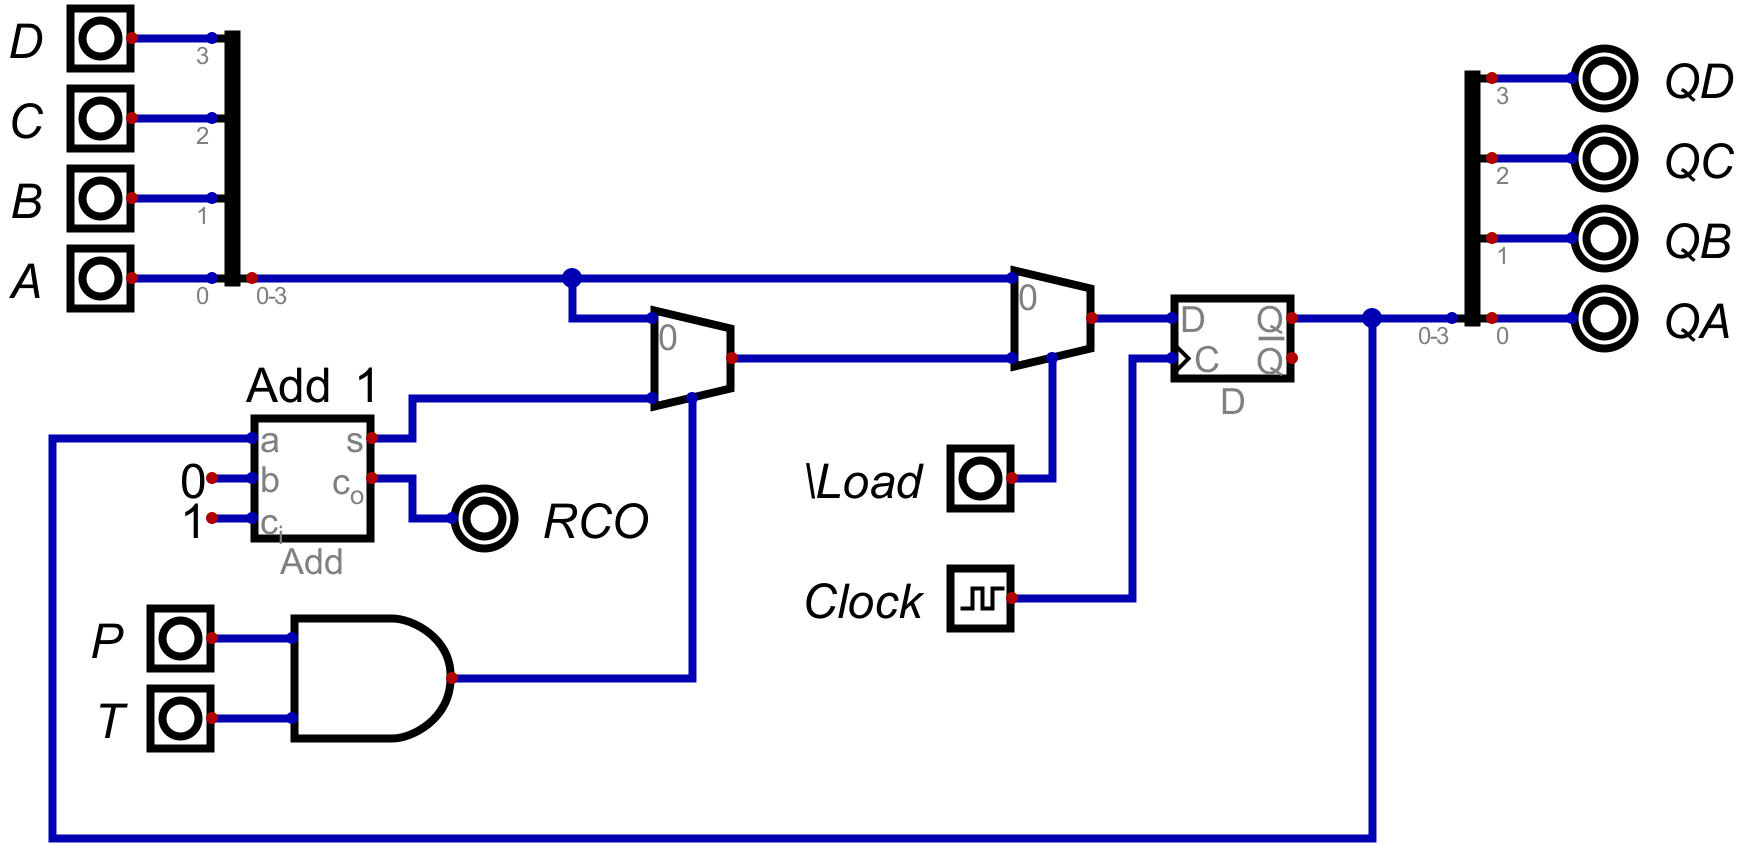
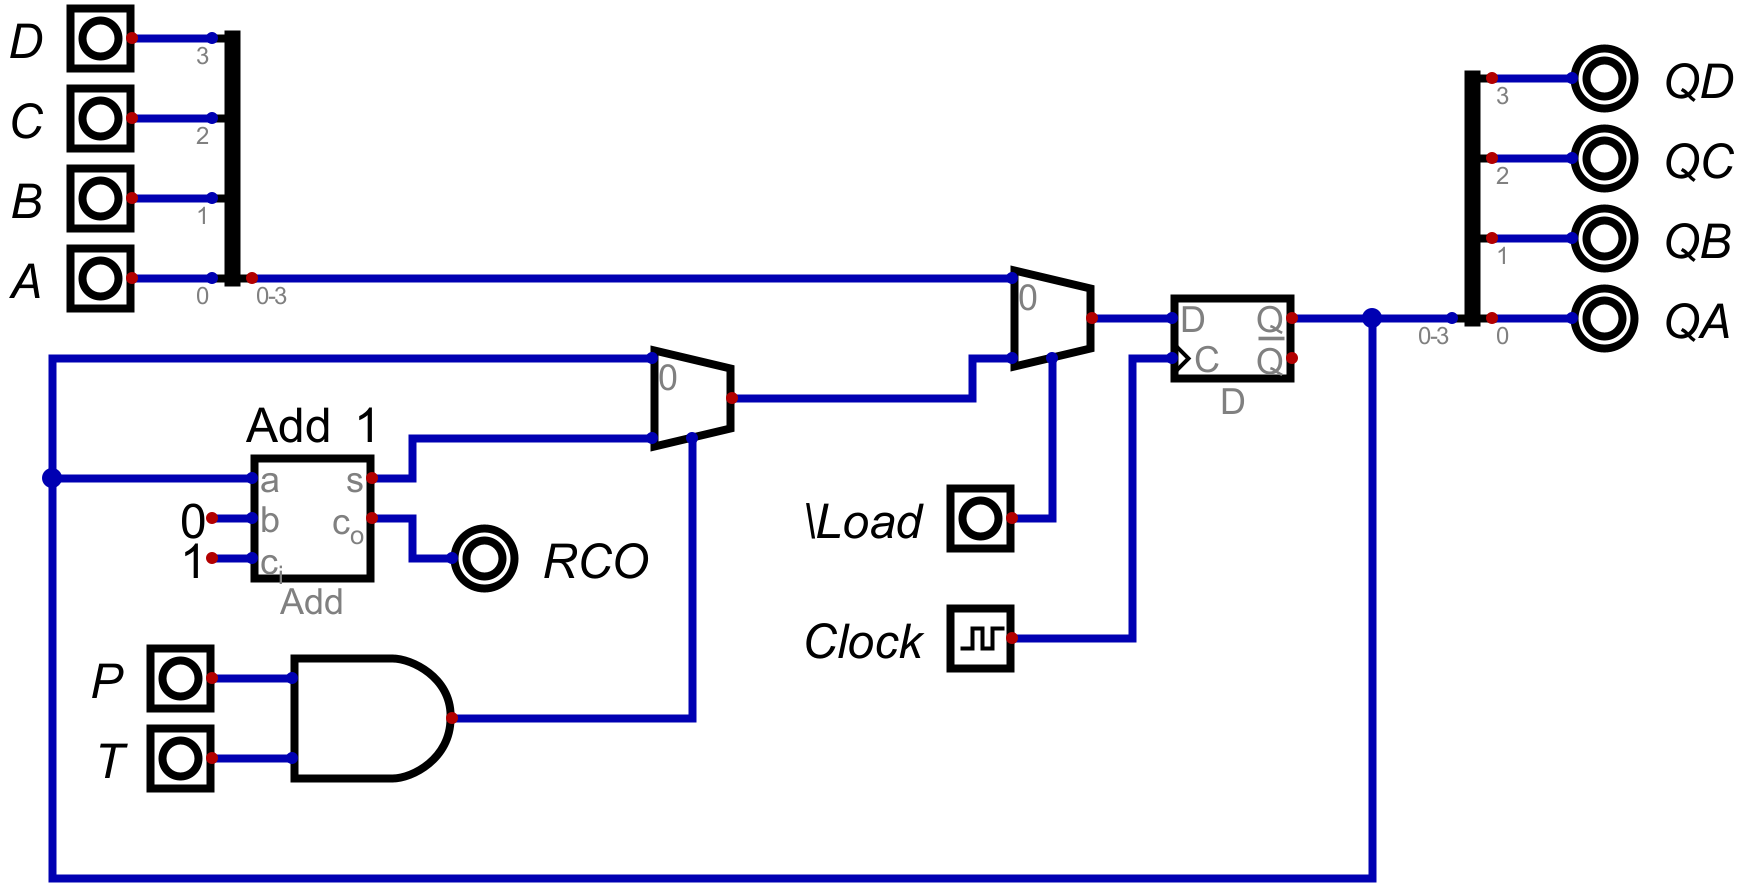
Update diglab_08_01

diff --git a/Lab 08/diglab_08_01/diglab_08_01_sol.md b/Lab 08/diglab_08_01/diglab_08_01_sol.md
@@ -14,14 +14,52 @@
 - `\Load = 0` คือการ SET ค่า `QD`, `QC`, `QB` และ `QA` ตามค่าของ `D`, `C`, `B` และ `A`
 - `\Clr = 0` คือการ RESET ค่า `QD`, `QC`, `QB` และ `QA` เป็นค่าเริ่มต้น
 
-[INSERT IMAGE HERE]
-
-<img src="https://raw.githubusercontent.com/reisenx/2110263-DIG-LOGIC-LAB-I/refs/heads/main/Lab%2007/diglab_07_05/diglab_07_05_pics/diglab_07_05_Dtable.png" width=40% height=40%>
+<img src="https://raw.githubusercontent.com/reisenx/2110263-DIG-LOGIC-LAB-I/refs/heads/main/Lab%2008/diglab_08_01/diglab_08_01_pics/diglab_08_01_signalTable.png" width=40% height=40%>
 
 ### Output
 - `QD`, `QC`, `QB` และ `QA` ใช้แสดงค่าของเลขใน state ปัจจุบัน
 - `RCO = 1` ก็ต่อเมื่อวงจรนับถึงเลข `1111`
 
+## ออกแบบวงจร Counter แบบคร่าวๆ
+เมื่อนำข้อมูลข้างต้นมาออกแบบวงจรแบบคร่าวๆ จะได้ดังนี้
+- ใช้ Adder ในการเพิ่มค่าทีละ 1
+- ใช้ Memory (D Flip-flop) ในการเก็บค่า Output ใน state ที่ผ่านมา
+
+<img src="https://raw.githubusercontent.com/reisenx/2110263-DIG-LOGIC-LAB-I/refs/heads/main/Lab%2008/diglab_08_01/diglab_08_01_pics/diglab_08_01_circuit.jpg" width=60% height=60%>
+
 ---
 
-# Step 2: 
+# Step 2: ต่อวงจร Counter 74163
+
+## ต่อวงจรในส่วนของ Input, Output และ Memory
+- สร้าง Input `A`, `B`, `C` และ `D` และเชื่อมด้วย Merger ให้เป็นเลขฐานสองขนาด 4 Bits
+- เขื่อม Input กับ Memory (D Flip-flop) เพื่อเก็บค่า Output ใน state ที่ผ่านมา
+- ใช้ Splitter เพื่อแยกเลขฐานสองขนาด 4 Bits ให้ Output ออกมาเป็น `QA`, `QB`, `QC` และ `QD`
+- ใช้ Multiplexer เชื่อมกับ Input เพื่อให้วงจรเก็บค่า `A`, `B`, `C` และ `D` เมื่อ `\Load = 0` เท่านั้น
+
+<img src="https://raw.githubusercontent.com/reisenx/2110263-DIG-LOGIC-LAB-I/refs/heads/main/Lab%2008/diglab_08_01/diglab_08_01_pics/diglab_08_01_memory.png" width=60% height=60%>
+
+## ต่อวงจรในส่วนของ Adder
+- ใช้วงจร Adder ในการบวก Output ใน state ก่อนหน้าเพิ่มอีก 1
+- เชื่อมผลบวกกับ Multiplexer ในภาพที่แล้ว โดยให้วงจรเก็บค่าผลบวกจากวงจร Adder เมื่อ `\Load = 1` เท่านั้น
+- สามารถแสดงผล `RCO` เป็น $C_{out}$ ของวงจร Adder ได้เลย เพราะว่าในขณะ Output เป็น `1111` ตัววงจร Adder ตอนนั้นมันได้เอา `1111` มาบวก `1` ไปแล้ว ซึงจะได้ $Sum$ เท่ากับ `0000` และ $C_{out}$ เป็น `1` ดังนั้น `RCO` จะแสดงผลเป็น `1` ในขณะที่ Output เป็น `1111` นั่นเอง
+
+<img src="https://raw.githubusercontent.com/reisenx/2110263-DIG-LOGIC-LAB-I/refs/heads/main/Lab%2008/diglab_08_01/diglab_08_01_pics/diglab_08_01_adder.png" width=60% height=60%>
+
+เนื่องจากวงจรนี้จะนับเลขก็ต่อเมื่อ `P` และ `T` เท่ากับ `1` ทั้งคู่ ถ้าหากมีตัวใดตัวหนึ่งเป็น `0` ให้ HOLD ค่าเดิมเอาไว้ ดังนั้นเราจะต้อง
+- ใช้ Multiplexer ที่มีช่องหนึ่งเชื่อมกับวงจร Adder เพื่อให้วงจรบวกเลขไปเรื่อยๆ
+- อีกช่องหนึ่งต่อกับ Output ใน State ที่แล้ว เพื่อ HOLD ค่าเดิมเอาไว้
+- ใช้ $Selector = PT$ เพื่อให้ Selector เท่ากับ `1` เมื่อ `P` และ `T` เท่ากับ `1` ทั้งคู่เท่านั้น
+
+<img src="https://raw.githubusercontent.com/reisenx/2110263-DIG-LOGIC-LAB-I/refs/heads/main/Lab%2008/diglab_08_01/diglab_08_01_pics/diglab_08_01_adderEnable.png" width=60% height=60%>
+
+## ต่อวงจรในส่วนของการ Clear
+
+- ถ้าหาก `\Load = 1` และ `\Clear = 0` จะ RESET ค่า Output เป็น `0000`
+- ถ้าหาก `\Load = 0` จะ SET ค่า Output เป็น `D`, `C`, `B` และ `A` เสมอ
+
+จากเงื่อนไขที่กล่าวมา เราสามารถต่อ `\Clear` เข้ากับ Multiplexer ตามวงจรได้ดังภาพ
+
+<img src="https://raw.githubusercontent.com/reisenx/2110263-DIG-LOGIC-LAB-I/refs/heads/main/Lab%2008/diglab_08_01/diglab_08_01.png" width=80% height=80%>
+
+เพียงเท่านี้เราก็จะได้วงจร Counter 74163 ที่เสร็จสมบูรณ์แล้ว
